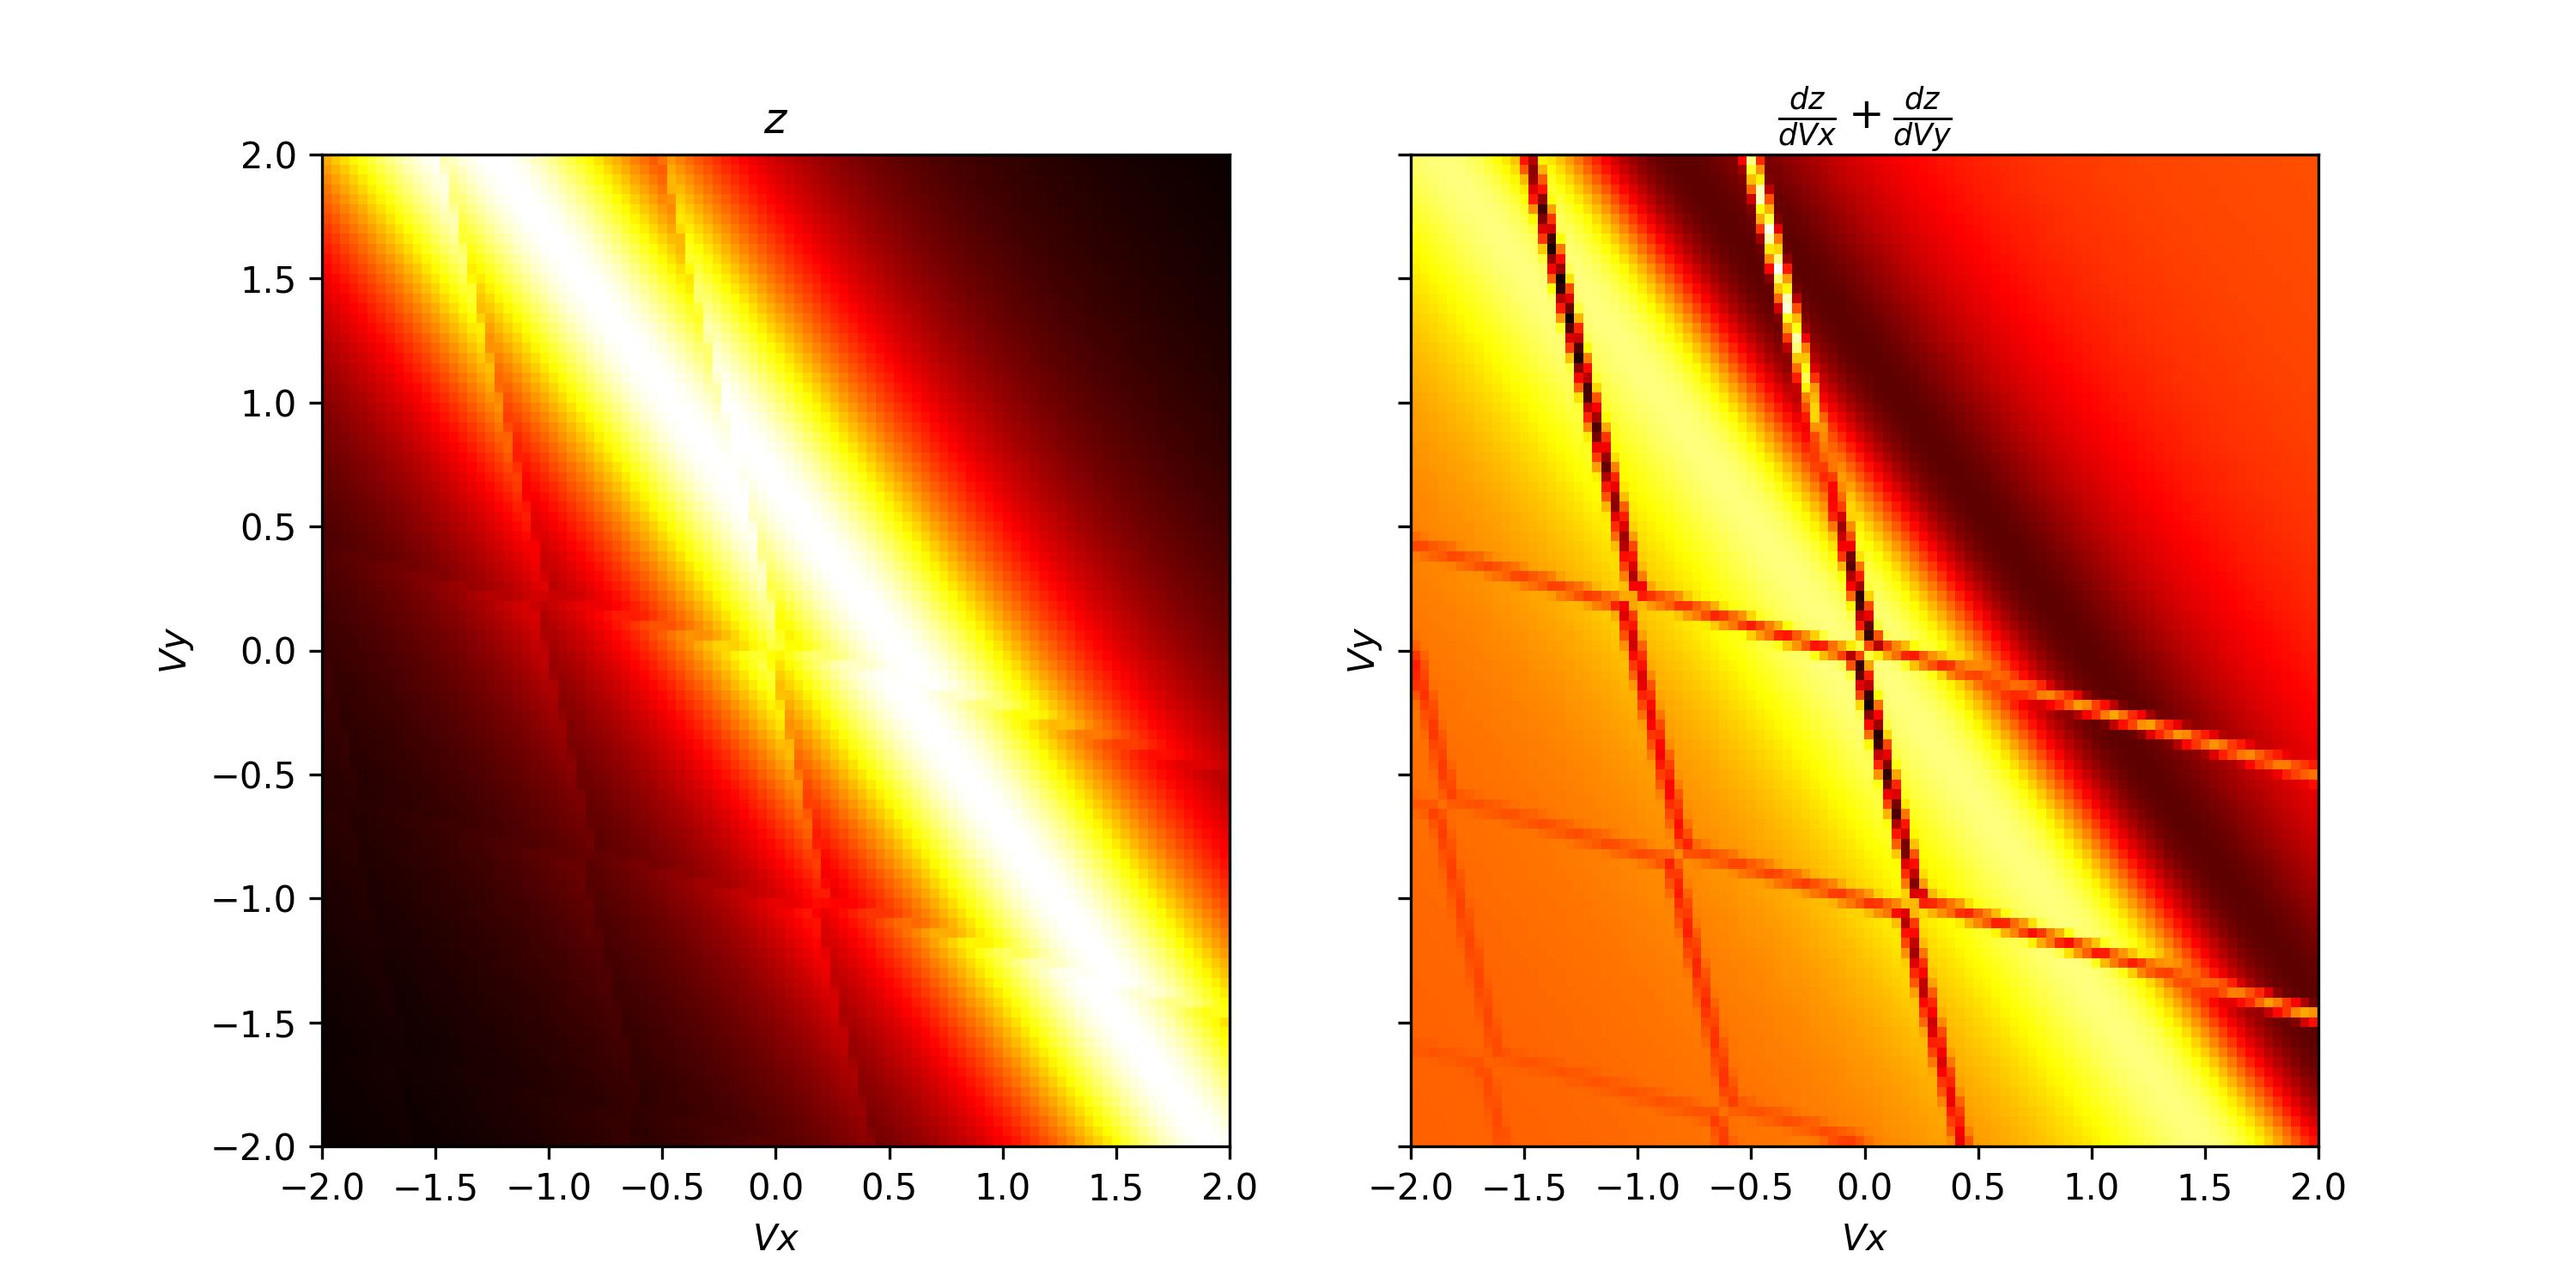
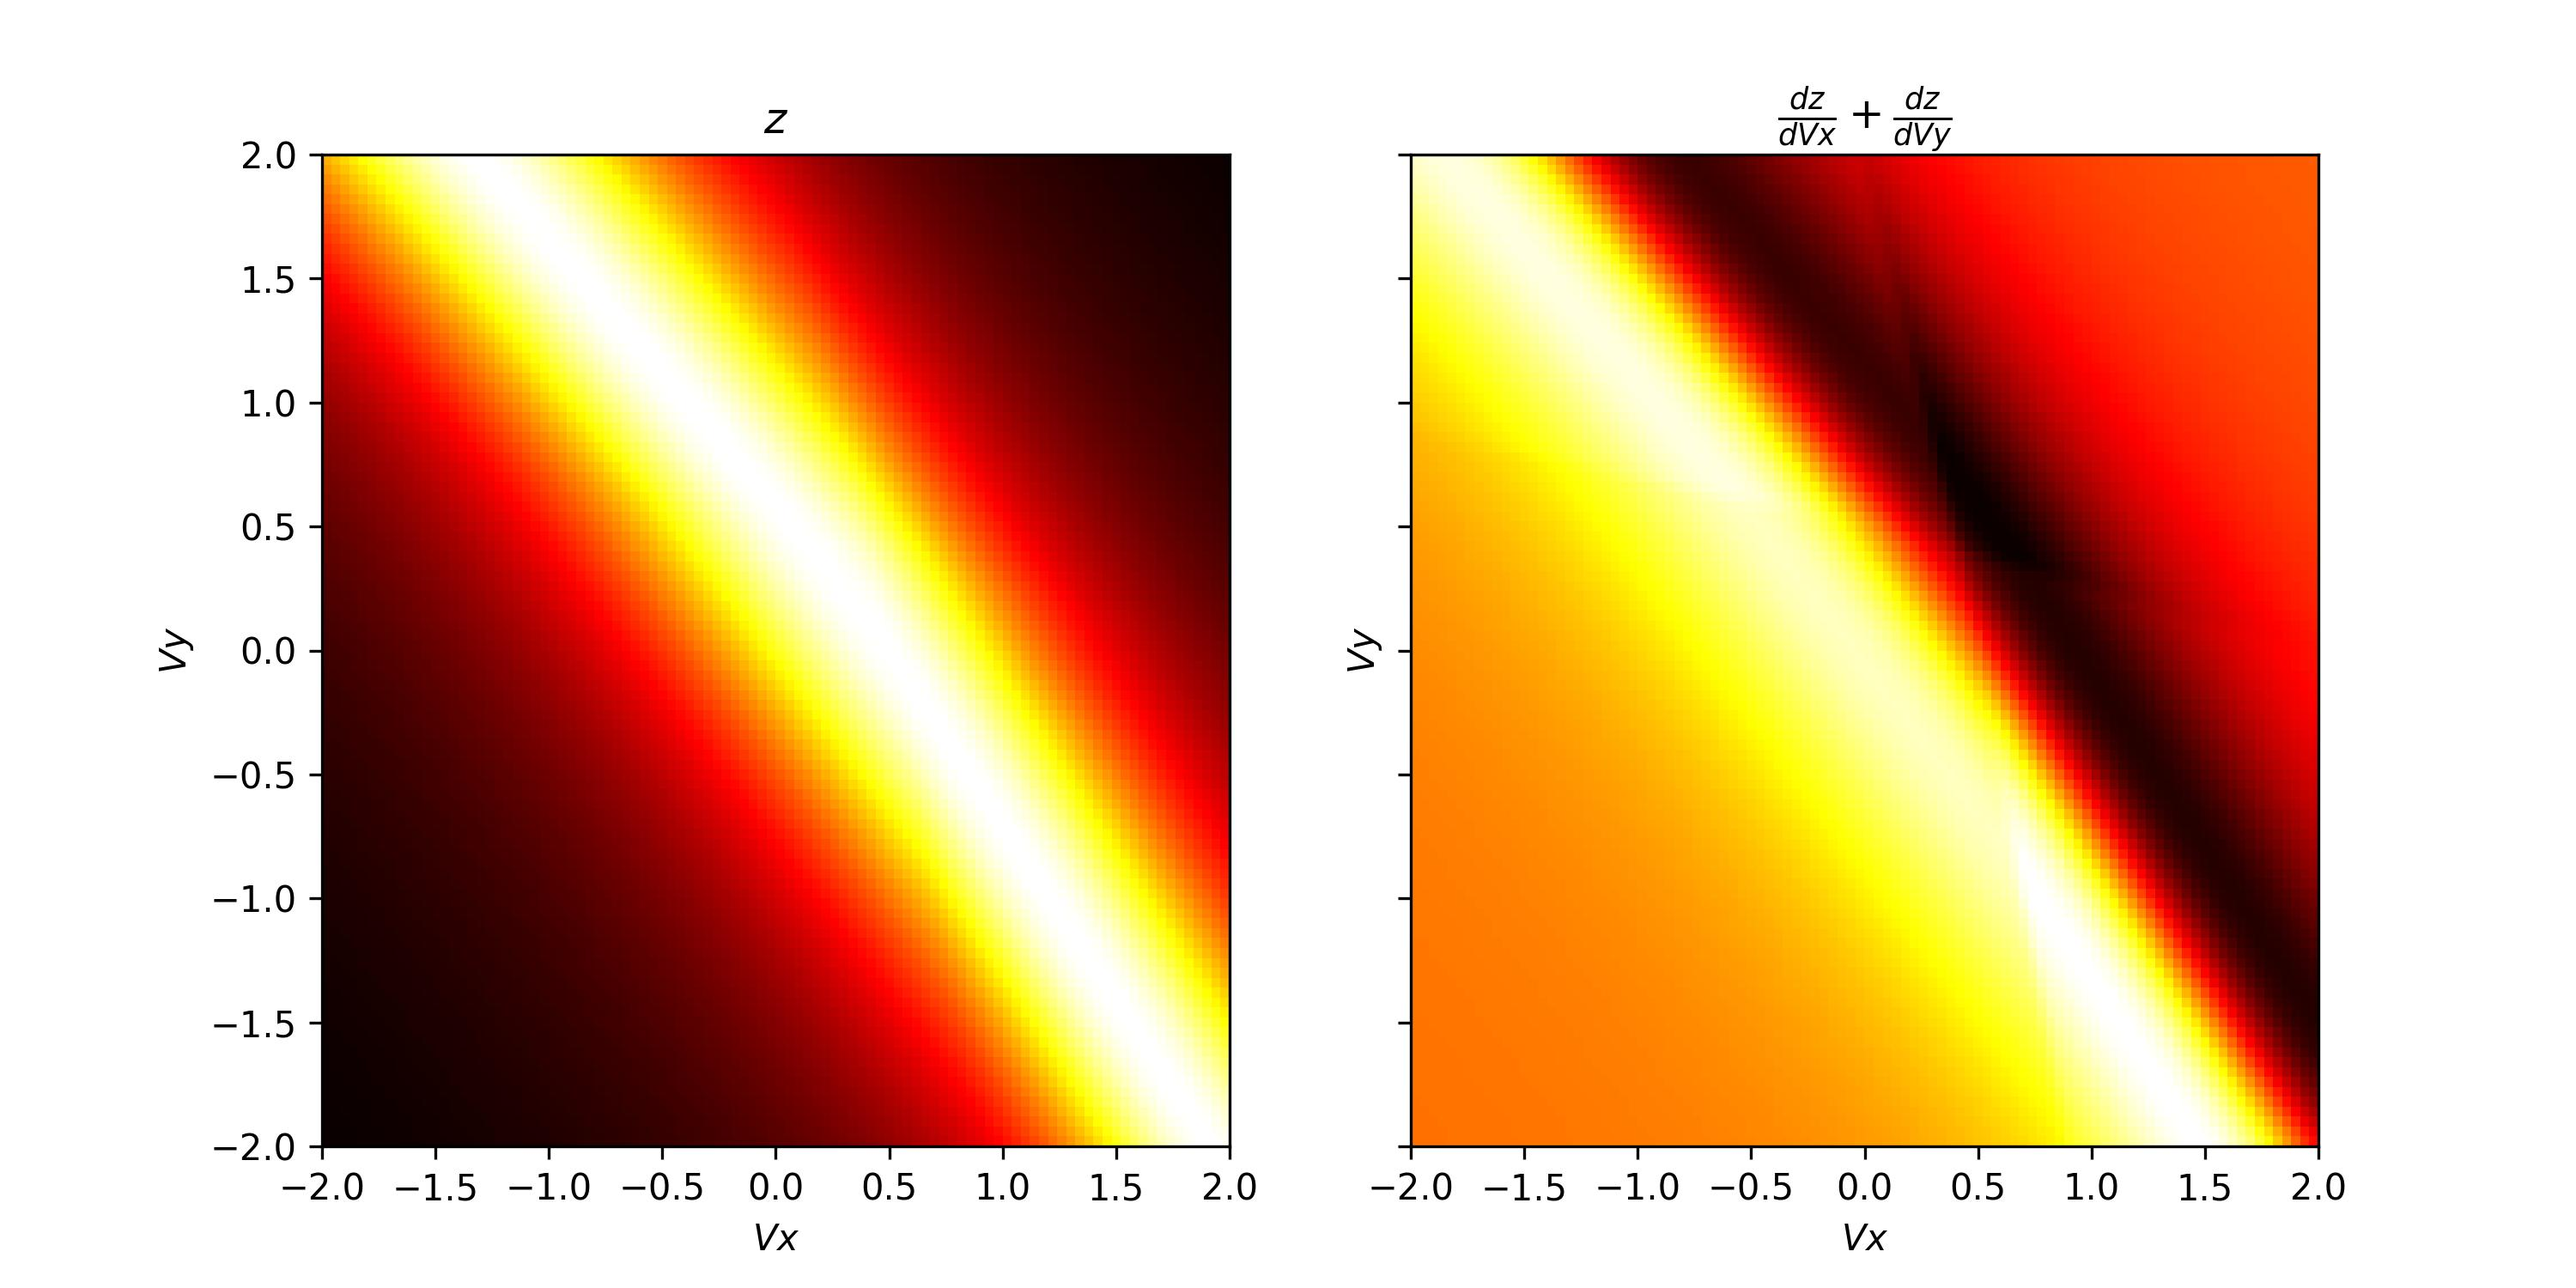
got cvxpy working

Changed region(s): [[0.527, 0.1227, 0.899, 0.8893], [0.124, 0.1227, 0.496, 0.828]]

diff --git a/qarray/python_implementations/cvxpy/cvxpy_closed.py b/qarray/python_implementations/cvxpy/cvxpy_closed.py
@@ -1,0 +1,37 @@
+from functools import partial
+
+import cvxpy as cp
+
+from qarray.qarray_types import CddInv, Cgd_holes, VectorList, Vector
+
+
+def ground_state_closed_cvxpy(vg: VectorList, n_charges: int, cgd: Cgd_holes,
+                              cdd_inv: CddInv) -> VectorList:
+    """
+     A python implementation ground state isolated function that takes in numpy arrays and returns numpy arrays.
+     :param polish:
+     :param vg: the list of dot voltage coordinate vectors to evaluate the ground state at
+     :param n_charge: the number of changes in the array
+     :param cgd: the dot to dot capacitance matrix
+     :param cdd: the dot to dot capacitance matrix
+     :param cdd_inv: the inverse of the dot to dot capacitance matrix
+     :param threshold: the threshold to use for the ground state calculation
+     :return: the lowest energy charge configuration for each dot voltage coordinate vector
+     """
+
+    f = partial(_ground_state_closed_0d, n_charges=n_charges, cgd=cgd, cdd_inv=cdd_inv)
+    N = map(f, vg)
+    return VectorList(list(N))
+
+
+def _ground_state_closed_0d(vg: Vector, n_charges: int, cgd: Cgd_holes, cdd_inv: CddInv) -> Vector:
+    x = cp.Variable(cdd_inv.shape[0], nonneg=True, integer=True)
+    n_continuous_min = x - cgd @ vg
+    objective = cp.Minimize(n_continuous_min.T @ cdd_inv @ n_continuous_min)
+
+    # creating a constraint that the charge must be positive
+    constraints = [x.sum() == n_charges]
+
+    prob = cp.Problem(objective, constraints)
+    prob.solve()
+    return Vector(x.value)

diff --git a/qarray/python_implementations/cvxpy/cvxpy_open.py b/qarray/python_implementations/cvxpy/cvxpy_open.py
@@ -1,0 +1,38 @@
+from functools import partial
+
+# making this an optional import
+import cvxpy as cp
+
+from qarray.qarray_types import CddInv, Cgd_holes, VectorList, Vector
+
+
+def ground_state_open_cvxpy(vg: VectorList, cgd: Cgd_holes,
+                            cdd_inv: CddInv) -> VectorList:
+    """
+     A python implementation ground state isolated function that takes in numpy arrays and returns numpy arrays.
+     :param polish:
+     :param vg: the list of dot voltage coordinate vectors to evaluate the ground state at
+     :param n_charge: the number of changes in the array
+     :param cgd: the dot to dot capacitance matrix
+     :param cdd: the dot to dot capacitance matrix
+     :param cdd_inv: the inverse of the dot to dot capacitance matrix
+     :param threshold: the threshold to use for the ground state calculation
+     :return: the lowest energy charge configuration for each dot voltage coordinate vector
+     """
+
+    f = partial(_ground_state_open_0d, cgd=cgd, cdd_inv=cdd_inv)
+    N = map(f, vg)
+    return VectorList(list(N))
+
+
+def _ground_state_open_0d(vg: Vector, cgd: Cgd_holes, cdd_inv: CddInv) -> Vector:
+    x = cp.Variable(cdd_inv.shape[0], integer=True)
+    n_continuous_min = x - cgd @ vg
+    objective = cp.Minimize(n_continuous_min.T @ cdd_inv @ n_continuous_min)
+
+    # creating a constraint that the charge must be positive
+    constraints = []
+
+    prob = cp.Problem(objective, constraints)
+    prob.solve()
+    return Vector(x.value)

diff --git a/qarray/DotArrays/ground_state.py b/qarray/DotArrays/ground_state.py
@@ -8,6 +8,7 @@ from qarray.python_implementations.brute_force_python import ground_state_open_b
 from ._helper_functions import _validate_vg
 from ..python_implementations import ground_state_open_default_or_thresholded_python, \
     ground_state_closed_default_or_thresholded_python
+from ..python_implementations.cvxpy import ground_state_open_cvxpy, ground_state_closed_cvxpy
 from ..qarray_types import VectorList
 from ..rust_implemenations import ground_state_open_default_or_thresholded_rust, \
     ground_state_closed_default_or_thresholded_rust
@@ -93,6 +94,10 @@ def _ground_state_open(model, vg: VectorList | np.ndarray) -> np.ndarray:
                         threshold=1.,
                         polish=model.polish, T=kB_T
                     )
+
+                case 'cvxpy':
+
+                    result = ground_state_open_cvxpy(vg=vg, cgd=model.cgd, cdd_inv=model.cdd_inv)
 
                 case 'thresholded':
 
@@ -205,6 +210,9 @@ def _ground_state_closed(model, vg: VectorList | np.ndarray, n_charge: int) -> n
                         threshold=1.,
                         polish=model.polish, n_charge=n_charge, T=kB_T
                     )
+
+                case 'cvxpy':
+                    result = ground_state_closed_cvxpy(vg=vg, n_charges=n_charge, cgd=model.cgd, cdd_inv=model.cdd_inv)
 
                 case 'thresholded':
 

diff --git a/examples/double_dot.py b/examples/double_dot.py
@@ -20,8 +20,8 @@ model = DotArray(
         [1., 0.],
         [0., 1]
     ]),
-    algorithm='thresholded',
-    implementation='rust', charge_carrier='h', T=0., threshold=0.5
+    algorithm='cvxpy',
+    implementation='python', charge_carrier='h', T=0., threshold=0.5
 )
 
 # creating the dot voltage composer, which helps us to create the dot voltage array
@@ -42,7 +42,7 @@ ground_state_funcs = [
 vx_min, vx_max = -5, 5
 vy_min, vy_max = -5, 5
 # using the dot voltage composer to create the dot voltage array for the 2d sweep
-vg = voltage_composer.do2d(0, vy_min, vx_max, 500, 1, vy_min, vy_max, 500)
+vg = voltage_composer.do2d(0, vy_min, vx_max, 50, 1, vy_min, vy_max, 50)
 
 # creating the figure and axes
 fig, axes = plt.subplots(2, 2, sharex=True, sharey=True)

diff --git a/qarray/DotArrays/_helper_functions.py b/qarray/DotArrays/_helper_functions.py
@@ -95,6 +95,7 @@ def check_algorithm_and_implementation(algorithm: str, implementation: str):
         'default': ['rust', 'python', 'jax'],
         'thresholded': ['rust', 'python'],
         'brute_force': ['jax', 'python'],
+        'cvxpy': ['python'],
     }
     assert algorithm.lower() in algorithm_implementation_combinations.keys(), f'Algorithm {algorithm} not supported'
     implementations = algorithm_implementation_combinations[algorithm.lower()]

diff --git a/examples/charge_sensing.py b/examples/charge_sensing.py
@@ -9,7 +9,7 @@ Cgs = [[0.06, 0.05, 1]]  # an (n_sensor, n_gate) array of the capacitive couplin
 # creating the model
 model = ChargeSensedDotArray(
     Cdd=Cdd, Cgd=Cgd, Cds=Cds, Cgs=Cgs,
-    coulomb_peak_width=0.05, T=100
+    coulomb_peak_width=0.05, T=100, algorithm='cvxpy', implementation='python'
 )
 
 voltage_composer = GateVoltageComposer(model.n_gate)

diff --git a/qarray/python_implementations/cvxpy/__init__.py b/qarray/python_implementations/cvxpy/__init__.py
@@ -1,0 +1,2 @@
+from .cvxpy_closed import ground_state_closed_cvxpy
+from .cvxpy_open import ground_state_open_cvxpy
